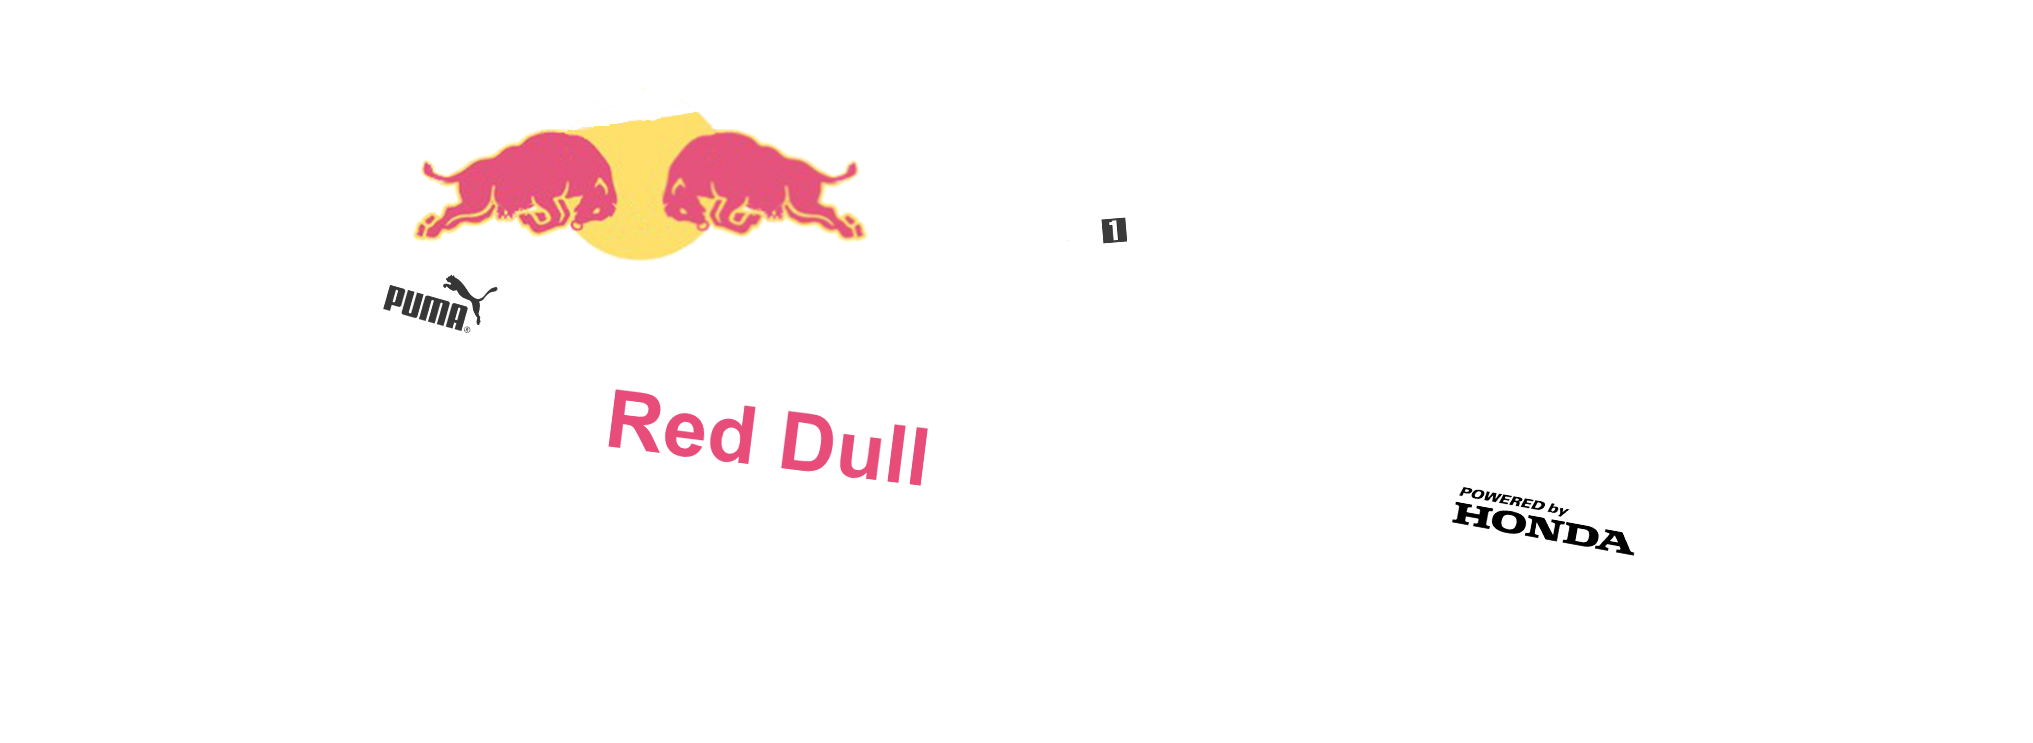
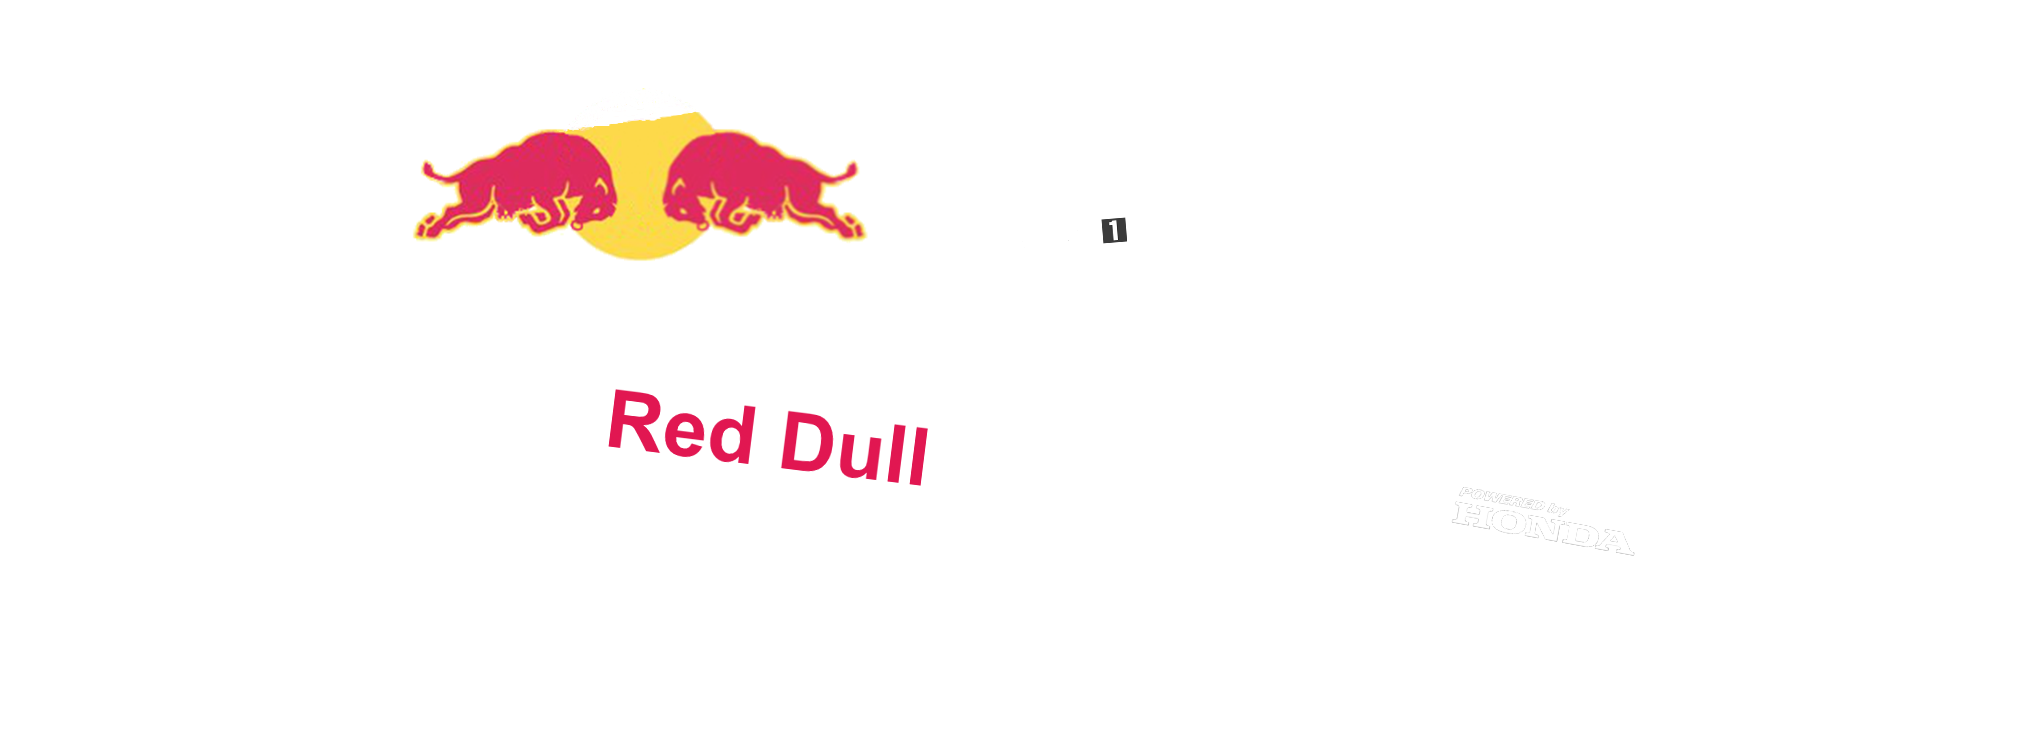
final countdown

diff --git a/conf_style.css b/conf_style.css
@@ -65,6 +65,7 @@ footer {
  grid-template-columns: 1fr 1fr;
 }
 
+/* COLOR BOX */
 #colorbox svg {
   width: 6vw;
   height: 2vw;
@@ -86,27 +87,48 @@ footer {
   height: 0.5vw;
 }
 
+#firstteams {
+  margin-top: -1vw;
+}
+
+#secondteams {
+  margin-top: -1vw;
+}
+
+#thirdteams {
+  margin-top: -1vw;
+}
+
+/* Top Info  */
 #top_info {
   display: flex;
   flex-direction: column;
-margin: 2vw 1vw 1vw 1vw;
+background-color: rgba(250, 250, 250, 46%)
 }
 
 #top_info  h1 {
   width: 90vw;
-  text-align: left;
+  text-align: center;
+  margin-left: 3vw;
+  font-size: 2vw;
 }
 
 #top_info  p {
   width: 90vw;
-  margin-top:1vw ;
-  margin-bottom: 0;
-  font-size: 1vw;
+  margin-top:0vw ;
+  margin-bottom: 2vw;
+  font-size: 1.2vw;
+  font-family: 'Lucida Sans', 'Lucida Sans Regular', 'Lucida Grande', 'Lucida Sans Unicode', Geneva, Verdana, sans-serif;
+  margin-left: 3vw;
+  text-align: center;
+  color: #000;
 }
 
 p {
   font-size: 1.5vw;
 }
+
+/* CAR */
 
 .hover:hover {
   cursor: pointer;
@@ -116,16 +138,22 @@ p {
 
 #carholder {
   margin-top: 10vw;
-  width: 50vw;
+  width: 60vw;
   height: 40vw;
   display: flex;
   flex-direction: row;
 }
 
+#car {
+  width: 58vw;
+  height: 20vw;
+  top: 4vw;
+}
+
 #configurate {
-  width: 50vw;
+  width: 40vw;
   height: 30vw;
-  margin-left: 8vw;
+  margin-left: 1vw;
 }
 
 #configurate h1 {
@@ -136,11 +164,6 @@ figure{
   margin: 2vw;
 }
 
-#car {
-  width: 50vw;
-  height: 20vw;
-  top: 30vw;
-}
 
 .outline {
   cursor: pointer;
@@ -320,13 +343,12 @@ span {
 
 #tyresHolder {
   position: absolute;
-  top: 43vw;
-  left: 1vw;
+  top: 35.9vw;
+  left: 1.3vw;
 }
 .tyre {
-  width: 45vw;
-  height: auto;
-
+  width: 51.5vw;
+  height: 15vw;
   transform: rotate(-0.5deg);
 }
 
@@ -337,8 +359,8 @@ span {
   position: absolute;
   width: 20vw;
   height: 10vw;
-  top: 47.3vw;
-  left: 31.2vw;
+  top: 41.8vw;
+  left: 38.7vw;
 }
 
 #frontwing:hover {
@@ -355,62 +377,61 @@ span {
 
 #rear {
   position: absolute;
-  width: 13vw;
+  width: 13.5vw;
   height: 8vw;
-  top: 38.5vw;
-  left: 1.4vw;
+  top: 31.2vw;
+  left: 2.9vw;
 }
 
 #halo {
 
     position: absolute;
-    width: 11vw;
+    width: 13.5vw;
     height: 9vw;
-    top: 42.3vw;
-    left: 21vw;
+    top: 35.1vw;
+    left: 24.2vw;
 }
 
 /* Sponsors */
 
 .sponsorsDis {
-  top: 39vw;
+  top: 31.8vw;
 }
 
 .redbul {
   position: absolute;
   width: 7vw;
-  height: 2.3vw;
-  left: 4vw;
+  height: 2.5vw;
+  left: 5.8vw;
 }
 
 .alpine {
   position: absolute;
   width: 8vw;
   height: 2.5vw;
-
-  left: 3.5vw;
+  left: 4.9vw;
 }
 
 .cogni {
   position: absolute;
   width: 7vw;
   height: 2.5vw;
-  left: 4vw;
+  left: 5.5vw;
 }
 
 .mission {
   position: absolute;
   width: 8vw;
   height: 2vw;
-  left: 4vw;
+  left: 5.2vw;
+  transform: rotate(-2.5deg);
 }
 
 .dell {
   position: absolute;
   width: 8vw;
   height: 2.9vw;
-
-  left: 3.8vw;
+  left: 5vw;
   transform: rotate(5deg);
 }
 
@@ -419,19 +440,43 @@ span {
   position: absolute;
   width: 7vw;
   height: 2.5vw;
-
-  left: 4vw;
+  left: 5.6vw;
   transform: rotate(3deg);
 }
 /* Teams */
 
-.amcogni {
+.rbracing {
   position: absolute;
-  width: 30vw;
+  width: 55vw;
   height: auto;
-  top: 40vw;
+  top: 30.8vw;
   left: 3vw;
 }
+
+.amcogni {
+  position: absolute;
+  width: 55vw;
+  height: auto;
+  top: 30.9vw;
+  left: 3vw;
+}
+
+.ferrari {
+  position: absolute;
+  width: 55vw;
+  height: auto;
+  top: 30.8vw;
+  left: 3vw;
+}
+
+.mclaren {
+  position: absolute;
+  width: 55vw;
+  height: auto;
+  top: 30.9vw;
+  left: 3vw;
+}
+
 /* Drivers */
 
 .slides {
@@ -441,7 +486,7 @@ span {
 }
 .driverContainer{
   position: absolute;
-  top: 25vw;
+  top: 23vw;
   left: 29vw;
   width: 15vw;
   height: 28vw;
@@ -454,23 +499,23 @@ span {
 }
 
 .seb {
-  height: 26vw;
-}
-
-.kimi {
-  height: 24vw;
-}
-
-.lewis {
   height: 25vw;
 }
 
+.kimi {
+  height: 23vw;
+}
+
+.lewis {
+  height: 22vw;
+}
+
 .daniel {
-  height: 26vw;
+  height: 24vw;
 }
 
 .gasly {
-  height: 26vw;
+  height: 24vw;
 }
 /* Buttons */
 
@@ -481,8 +526,8 @@ span {
   display: flex;
   flex-direction: column;
   align-items: center;
-  left: 10vw;
-  top: 58vw;
+  left: 19vw;
+  top: 52vw;
 }
 .arrow {
   margin-right:2vw ;
@@ -506,6 +551,7 @@ span {
 }
 
 #drivers  h1 {
-  font-size: 1.8vw;
-  margin:0;
+  font-size: 1.3vw;
+  margin-top: 1vw;
+  font-family: "Racing Sans One", cursive;
 }

diff --git a/configurator.html b/configurator.html
@@ -51,6 +51,7 @@
                 wings), change the wheels depending on the speed wanted then go pick your title sponsor and
                 your team. To complete your F1 fantasy league, chose your favorite drive by clicking the
                 arrows.
+                *in order to change the colors again make sure the team logos are off*
 
             </p>
         </div>
@@ -100,10 +101,10 @@
                 <img src="./features/dell.png" alt="wet tyres" class="hide dell sponsorsDis" data-feature="dell" />
                 <img src="./features/honda.png" alt="wet tyres" class="hide honda sponsorsDis" data-feature="honda" />
                 <!-- Teams Logos -->
-                <img src="./features/redbrace.png" alt="wet tyres" class="hide amcogni " data-feature="rbracing" />
+                <img src="./features/redbrace.png" alt="wet tyres" class="hide rbracing" data-feature="rbracing" />
                 <img src="./features/astonm.png" alt="wet tyres" class="hide amcogni" data-feature="amcogni" />
-                <img src="./features/ferrari.png" alt="wet tyres" class="hide amcogni" data-feature="ferrari" />
-                <img src="./features/mclaren.png" alt="wet tyres" class="hide amcogni" data-feature="mclaren" />
+                <img src="./features/ferrari.png" alt="wet tyres" class="hide ferrari" data-feature="ferrari" />
+                <img src="./features/mclaren.png" alt="wet tyres" class="hide mclaren" data-feature="mclaren" />
             </div>
             <div id="configurate">
                 <h3>Mix and Match your favorite team colors:</h3>
